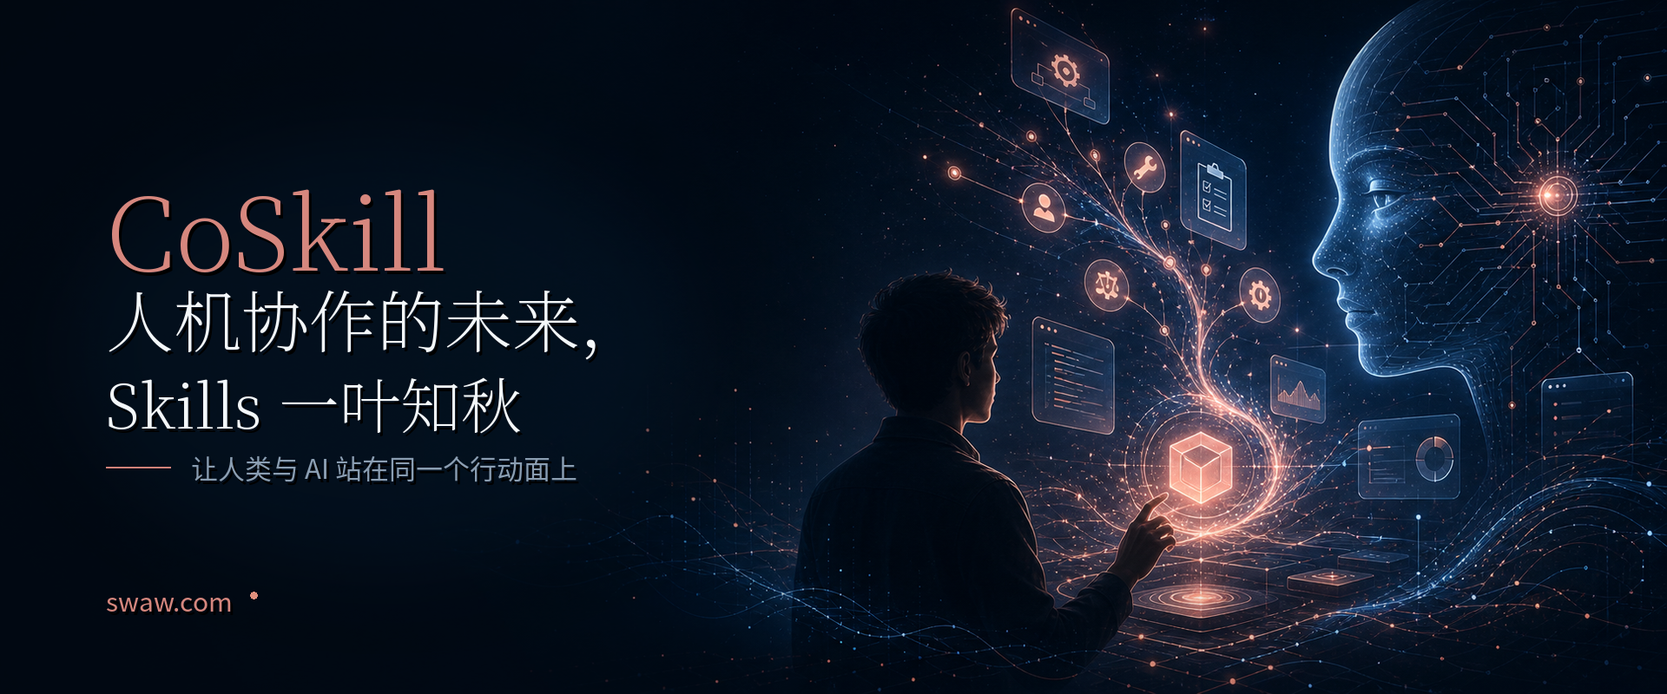
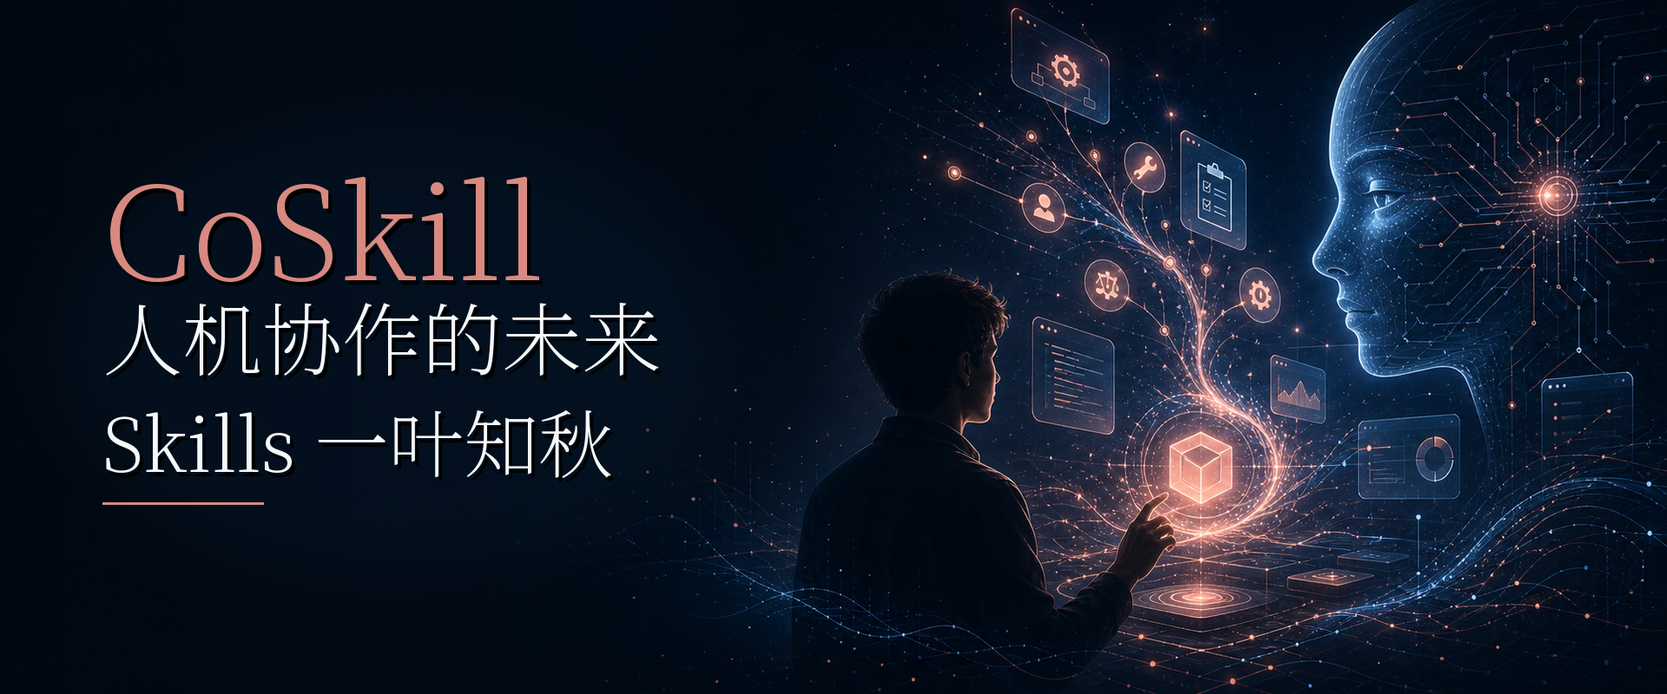
修订coskill 文章

Changed region(s): [[0.0625, 0.25, 0.4062, 0.75], [0.0625, 0.8438, 0.1562, 0.9062]]

diff --git a/content/d/coskill-trustworthy-collaboration/index.md b/content/d/coskill-trustworthy-collaboration/index.md
@@ -1,9 +1,9 @@
 ---
-date: "2026-06-11T17:07:20+08:00"
+date: "2026-06-12T17:56:53+08:00"
 draft: false
-title: "Coskill: Not Making AI Stronger, but Making Collaboration More Trustworthy"
+title: "CoSkill: The Future of Human-Agent Collaboration"
 slug: "coskill-trustworthy-collaboration"
-description: "Starting from Anthropic Agent Skills, this essay argues that skills should not only empower agents, but also become human-legible, interruptible, reproducible, and auditable units of collaboration."
+description: "Starting from Anthropic Skills, this essay proposes CoSkill: a capability unit with an agent-callable interface, a human-operable UI, and a shared layer for logs, permissions, and approvals."
 outputs:
  - HTML
  - AGENT_MARKDOWN
@@ -12,117 +12,104 @@ intent:
  - explore
 tags:
  - ai
+ - tooling
 ---
 
-# Coskill: Not Making AI Stronger, but Making Collaboration More Trustworthy
+# The Future of Human-Agent Collaboration, Seen Through Skills
 
-Anthropic's Agent Skills are mainly about expanding the capabilities of models and agents: letting a model load instructions, call tools, use resources, and complete more complex, specialized, and reusable tasks at the right moment.
+Give AI/agents a little less room for autonomous improvisation, and give tools and fixed workflows a little more weight. The fate of humans being replaced will feel a little less close to reality.
 
-That matters.
+![CoSkill, the future of human-agent collaboration](coskill-trustworthy-collaboration.png)
 
-But from the user's point of view, the real question is not only whether the model is stronger. It is whether the work is completed reliably, safely, and intelligibly. A system that can do more is not automatically more trustworthy. Once capability grows, if human visibility, judgment, and takeover rights do not grow with it, collaboration gradually turns into spectatorship.
+## A Subtle Difference
 
-So skills should not be designed only around agents.
+Anthropic's Skills are mainly about [expanding the capabilities of models and agents](https://www.anthropic.com/engineering/equipping-agents-for-the-real-world-with-agent-skills): [letting a model load instructions and call tools on demand](https://platform.claude.com/docs/en/agents-and-tools/agent-skills/overview).
 
-A better direction is **Coskill**: a capability unit that both humans and agents can use.
+That certainly matters. But for human users, the more important question is whether the task is completed predictably and reliably.
 
-Its concrete execution form can be called **CoAction**: the same operation has both a human-friendly interface and an agent-callable interface. It can run automatically, but humans can still inspect, intervene, approve, pause, reproduce, and audit it at any time.
+For a recurring task, people usually want stable, step-by-step delivery. They do not want the model/agent to invent something new every time.
 
-## From Skill to Coskill
+So unless the task is exploratory or research-oriented, skills may be the more central layer.
 
-The problem with many skills today is that they make agents more capable without making human visibility stronger at the same time.
+This is a subtle psychological difference between everyday agent users and large-model companies.
 
-When does the model decide to use a certain skill? How does it interpret that skill? Which tools did it call? Which resources did it read? What intermediate state did it produce? How does it recover after failure? Does a key judgment have evidence behind it? These details are often opaque to humans.
+## Skills Should Not Only Be AI Add-ons. They Should Also Be a Human Foundation.
 
-This not only increases the black-box feeling of AI, but also makes people feel excluded from the action itself.
+Some people mount hundreds of skills for Codex / Claude Code, yet do not understand the details of how the model uses them.
 
-Coskill tries to change that structure of action.
+Skills often operate on concrete objects: modifying a code project, or calling an API to place and pay for an order.
 
-At minimum, a Coskill should include three layers:
+Today, we rarely hear that humans can bypass the agent and directly operate or orchestrate skills themselves.
 
-1. execution instructions and interfaces readable by the agent;
-2. an operation interface and status view understandable by humans;
-3. execution logs, permission boundaries, and pause/approval/replay mechanisms that run through both.
+Many of our abilities have always been granted by tools.
 
-In other words, Coskill is not a human-facing manual wrapped around an agent skill. It is a capability unit that has both a machine entrance and a human entrance.
+Humans are not stronger than great beasts, but we changed the world through tools.
 
-This distinction matters.
+If tools built for humans do not lag behind tools built for AI, we may not necessarily lag behind AI either.
 
-If there is only an agent entrance, the stronger the capability becomes, the more humans are left behind. If there is only a human interface, the system becomes difficult for agents to orchestrate and reuse. Coskill's goal is to put humans and agents on the same plane of action: the same task can be started by an agent or by a human; it can proceed automatically or be taken over manually; it can run, but it can also be explained, challenged, and reproduced.
+## We Cannot Easily Improve Large Models, but We Can Improve Skills
 
-## Trustworthy Collaboration Is Not Approval at Every Step
+It is hard for us to modify large models. With commercial models, we may not even have bargaining power.
 
-The ethical point of Coskill is not that humans must participate in every step.
+Skills are different. This is an example skill from the Claude documentation:
 
-That would drag collaboration back into inefficient manual approval, and it would misunderstand the value of automation. A mature system does not ask humans about everything. It provides the right control surface for different levels of risk.
+```text
+pdf-skill/
+├── SKILL.md (main instructions)
+├── FORMS.md (form-filling guide)
+├── REFERENCE.md (detailed API reference)
+└── scripts/
+    └── fill_form.py (utility script)
+```
 
-Low-risk actions can be completed automatically.
+The `.md` files are text, and the `scripts` directory contains code. Almost anyone can change them.
 
-Medium-risk actions should leave clear records and allow undo or replay.
+## Skill Usage Is Valuable Experience
 
-High-risk actions require human approval, boundary confirmation, and sometimes an explicit evidence trail.
+As the digital world and agent ecosystem become more abundant, there will often be more than one path to the same goal.
 
-Irreversible actions, state-changing actions, or actions involving money, identity, permissions, privacy, production environments, or public release should expose stronger audit and takeover capabilities by default.
+Some birds weave nests from reeds. Some animals sleep while hanging upside down. The Sumerians wrote records on clay tablets. The Chinese used ceramics to make water jars.
 
-The principle is not "humans are slower, so route around them." The principle is: **automation should reduce repetitive labor, while humans retain final responsibility and value judgment.**
+Large-model/agent companies can easily collect which skills users use and how they use them, then improve their own models.
 
-Once a system begins to exercise action rights on behalf of humans, it should not hide the process of action.
+If we add even a little structure to skills or agents:
 
-## Agents Also Need Institutional Constraints
+1. record the usage frequency and sequence paths of each capability inside skills;
+2. record the result after each capability is used, whether it succeeds or fails.
 
-Coskill also reminds the agent: your operations are not happening in secret.
+Then we can form our own experience assets for the digital world, without binding ourselves to any particular large-model/agent company.
 
-Your choices leave traces. Your actions can be audited. Your judgments need evidence. You are not exercising power for humans inside a black box.
+## I Propose the Concept of CoSkill
 
-This sounds like an ethical statement, but it is also an engineering principle.
+A capability unit that both humans and agents can use.
 
-An automation system that cannot be audited is difficult to trust over the long term. Agent behavior that cannot be reproduced is difficult to debug. A skill without permission boundaries can easily slide from "improving efficiency" into "creating incidents." A tool ecosystem that pursues capability expansion without offering a human entrance makes users more dependent on the system while making the system harder to understand.
+It roughly contains:
 
-That is not good collaboration.
+1. execution instructions and interfaces readable by the agent (Skills);
+2. a human-understandable operation interface and status view (App);
+3. a shared layer for logs, permissions, and approvals.
 
-Good collaboration should strengthen both sides: agents gain more reliable execution capacity, while humans gain clearer observation, judgment, and takeover capacity.
+At the execution level, each executable operation can also be called a **CoAction**.
 
-## Coskill as Institutional Design
+A CoAction can be initiated by an agent or by a human. It can run automatically, and it can also be reviewed, approved, or taken over by humans.
 
-Coskill is therefore not only a tool pattern. It is a form of institutional design for human-agent collaboration.
+This also reminds the agent: your operation is not happening in secret. It will be recorded.
 
-It cares not only about how to complete the task, but also about:
+So CoSkill is not only a tool pattern. It is also a design idea for human-agent collaboration.
 
-- who may start the capability;
-- under what conditions the agent may execute automatically;
-- which steps must be visible to humans;
-- which actions require approval;
-- how failure is recovered;
-- how execution can be reproduced;
-- how the result can be audited afterward;
-- how humans can move from spectators back into participation.
+## Skills WorldTree, the Next Step After CoSkill
 
-The future of human-agent relations may be visible in the shape of skills.
+When there are more CoSkills, we can consider:
 
-If we only build increasingly powerful tools for AI, without leaving humans an equally clear, capable, and auditable entrance, then "collaboration" will quickly slide toward replacement. Not because AI necessarily wants to replace people, but because the system structure has already assumed that humans are not on the plane of action.
+1. a unified UI protocol, so a browser-like tool can display the UI of all CoSkills;
+2. aggregating massive numbers of CoSkills, with unified classification, indexing, and orchestration. This interface can center human operation, with agents as assistants, for example to bridge the gaps between skills.
 
-Once humans are no longer on that plane, they can only react to the result afterward: like it or dislike it, accept it or reject it. That is not collaboration. It is closer to consumption.
+## A Leaf Reveals Autumn
 
-## Humans Need Tools That Do Not Fall Behind
+The future is already here. The way Skills exist can already be seen as a signal for the era of human-agent collaboration.
 
-Many human abilities have always been granted by tools.
+If we only build increasingly powerful tools for AI, without leaving humans an equally powerful and enterable interface, then so-called collaboration will quickly slide toward replacement.
 
-Humans are not stronger than great beasts, but we changed the world through tools. Tools are not outside human capability; they have always been extensions of human capability. Language, writing, paper, printing, ledgers, maps, telescopes, and computers are all ways in which limited minds became civilizational capacity.
+The question is not whether AI should become stronger.
 
-In the age of AI agents, then, the real danger is not that agents have tools. The real danger is that only agents get increasingly better tools.
-
-If tools built for humans do not lag behind tools built for agents, human capability may not necessarily lag behind AI agents. The point is not to make humans manually perform every task. The point is to ensure that humans always have clear, powerful, trustworthy entrances into the work, so they can understand what is happening and enter the scene when necessary.
-
-The core of Coskill is not letting AI do things instead of humans. It is letting humans and AI stand on the same plane of action.
-
-Skill gives agents capability.
-
-Coskill makes that capability visible, controllable, and auditable by humans as well.
-
-The future is already here. The way Skills exist is both a technical architecture and a signal for the era of human-agent collaboration.
-
-If the next generation of tools only answers "How can AI become stronger?", we will get stronger automation.
-
-But if it also answers "How can humans remain present?", we may get truly trustworthy collaboration.
-
-> Note: Anthropic describes [Agent Skills](https://www.anthropic.com/engineering/equipping-agents-for-the-real-world-with-agent-skills) as modular capabilities that can be loaded on demand, usually containing instructions, metadata, and optional scripts, templates, and resources. This essay is not an implementation guide for Anthropic Skills. It uses that form as a starting point for a broader collaboration design direction.
+The question is whether, when AI becomes stronger, humans can still stand on the same plane of action.

diff --git a/content/d/coskill-trustworthy-collaboration/index.zh-tw.md b/content/d/coskill-trustworthy-collaboration/index.zh-tw.md
@@ -1,9 +1,9 @@
 ---
-date: "2026-06-11T17:07:20+08:00"
+date: "2026-06-12T17:56:53+08:00"
 draft: false
-title: "Coskill：不是讓 AI 更強，而是讓協作更可信"
+title: "CoSkill：人機協作的未來"
 slug: "coskill-trustworthy-collaboration"
-description: "從 Anthropic Agent Skills 出發，重新思考 skill 不只是 agent 的能力包，也應該成為人類可理解、可介入、可復現、可審計的協作單元。"
+description: "從 Anthropic Skills 出發，提出 CoSkill：讓同一能力單元同時擁有 agent 可呼叫接口、人類可操作介面，以及日誌、權限、審批層。"
 outputs:
  - HTML
  - AGENT_MARKDOWN
@@ -12,117 +12,104 @@ intent:
  - explore
 tags:
  - ai
+ - tooling
 ---
 
-# Coskill：不是讓 AI 更強，而是讓協作更可信
+# 人機協作的未來，Skills 一葉知秋
 
-Anthropic 提出的 Agent Skills，核心是增強模型與 agent 的能力：讓模型在合適的時候載入說明、呼叫工具、使用資源，完成更複雜、更專業、更可複用的任務。
+讓 AI/agent 自主發揮的空間小一點，工具化和固化的流程多一點，人類被取代的命運就會離現實更遠一點。
 
-這當然重要。
+![CoSkill，人機協作的未來](coskill-trustworthy-collaboration.png)
 
-但從人類使用者的角度看，真正重要的未必只是「模型更強」，而是事情是否被可靠、安全、可理解地完成。一個系統能做更多事，並不自動意味著它更值得信任。能力增長之後，如果人類的可見性、判斷權和接管權沒有同步增長，協作就會逐漸變成旁觀。
+## 一點微妙分歧
 
-因此，skill 不應只圍繞 agent 設計。
+Anthropic 提出的 Skills，核心是[增強模型與 agent 的能力](https://www.anthropic.com/engineering/equipping-agents-for-the-real-world-with-agent-skills)：[讓模型可以按需載入操作說明、呼叫工具](https://platform.claude.com/docs/en/agents-and-tools/agent-skills/overview)。
 
-更好的方向，是 **Coskill**：一種人類和 agent 都能使用的能力單元。
+這固然重要，但對人類使用者來說，更在乎的是，任務是否能按預期、穩定地完成。
 
-它的具體執行形態可以叫 **CoAction**：同一個操作，既有人類友好的介面，也有 agent 可呼叫的接口；既能自動運行，也能被人類隨時查看、介入、批准、暫停、復現和審計。
+一個經常性任務，人們更希望它穩定、按部就班地完成交付，並不想模型/agent 每次都搞出新東西。
 
-## 從 Skill 到 Coskill
+所以，除非是探索、研究型任務，否則 skills 才是更核心的。
 
-今天很多 skill 的問題在於：它們增強了 agent，卻沒有相應增強人類的可見性。
+這是 agent 日常使用者和大型模型公司之間一點微妙的心理分歧。
 
-模型什麼時候決定使用某個 skill？它如何理解這個 skill？它呼叫了哪些工具？讀取了哪些資源？中間狀態是什麼？失敗後如何恢復？關鍵判斷是否有證據？這些資訊對人類往往並不透明。
+## Skills 不該只是 AI 的外掛，也該是人類的底座
 
-這不僅會放大 AI 的黑箱感，也會讓人類更容易感到自己被排除在行動過程之外。
+有人為 Codex / Claude Code 掛載上百個 skills，但並不了解模型使用它們的具體細節。
 
-而 Coskill 想改變的，正是這個行動結構。
+skills 往往是操作具體對象，例如改動一個程式碼專案，或呼叫某個接口進行付款下單。
 
-一個 Coskill 至少應包含三層：
+今天，很少聽說人類可以越過 agent，直接自己操作或編排 skills。
 
-1. agent 可讀取的執行說明與接口；
-2. 人類可理解的操作介面與狀態視圖；
-3. 貫穿兩者的執行日誌、權限邊界、暫停/批准/回放機制。
+我們的很多能力，本來就是工具賦予的。
 
-換句話說，Coskill 不是給 agent 的 skill 外面套一層說明書，而是讓同一個能力單元同時擁有機器入口和人類入口。
+人類沒有猛獸強壯，卻藉助工具改變了世界。
 
-這點很關鍵。
+如果面向人類的工具不落後於面向 AI 的工具，我們也未必會落後於 AI。
 
-如果只有 agent 入口，那麼能力越強，人類越像被系統甩在身後。如果只有人類介面，那麼系統又難以被 agent 自動編排和複用。Coskill 的目標，是讓人類與 agent 站在同一個行動面上：同一件事，可以由 agent 啟動，也可以由人類啟動；可以自動推進，也可以人工接管；可以運行，也可以被解釋、被質疑、被復現。
+## 我們不能參與改進大型模型，但可以參與改進 skills
 
-## 可信協作不是每一步都人工確認
+我們很難修改大型模型；至於商用模型，可能連議價權都沒有。
 
-Coskill 的道義重點，不是「必須讓人參與每一步」。
+skills 不同。這是 Claude 文件裡的示例 skill：
 
-那會把協作重新拖回低效的人肉審批，也會誤解自動化的價值。真正成熟的系統，不是凡事都問人，而是在不同風險層級上給出合適的控制面。
+```text
+pdf-skill/
+├── SKILL.md (main instructions)
+├── FORMS.md (form-filling guide)
+├── REFERENCE.md (detailed API reference)
+└── scripts/
+    └── fill_form.py (utility script)
+```
 
-低風險動作可以自動完成。
+其中 `.md` 文件裡都是文本，`scripts` 中是程式碼，幾乎人人都可以改。
 
-中風險動作應留下清晰記錄，並允許撤銷或回放。
+## 對 skills 的使用，是一種有價值的經驗
 
-高風險動作需要人類批准、確認邊界，甚至要求系統展示證據鏈。
+隨著數位世界和 agent 生態繁榮，達成一個目標的路徑，往往會變得不只一條。
 
-不可逆、影響外部狀態、涉及金錢、身份、權限、隱私、生產環境或公共發布的動作，則應該預設暴露更強的審計和接管能力。
+有的鳥類用蘆葦織巢，有的獸類倒掛著睡覺，蘇美人把記錄寫在泥板上，中國人用陶瓷做水缸……
 
-這背後的原則不是「人類更慢，所以盡量繞開人類」，而是：**自動化負責減少重複勞動，人類負責保留最終責任與價值判斷。**
+大型模型/agent 公司，很容易收集使用者用了什麼 skills、如何使用，然後改進自家模型的能力。
 
-一旦系統開始替人類行使行動權，它就不該把行動過程藏起來。
+如果對 skills 或 agent 做一點點規範：
 
-## Agent 也需要被制度約束
+1. 記錄 skills 中各個能力的使用頻率、順序路徑；
+2. 記錄各個能力被使用後的效果，是成功，還是失敗。
 
-Coskill 也在提醒 agent：你的操作不是隱秘發生的。
+我們完全可以形成自己的數位世界經驗資產，而不必與某家特定的大型模型/agent 綁定。
 
-你的選擇會留下痕跡。你的行動可以被審計。你的判斷需要證據。你不是在黑箱中替人類行使權力。
+## 我提出 CoSkill 概念
 
-這句話聽上去像倫理宣言，但它其實也是工程原則。
+一種人類和 agent 都能使用的能力單元。
 
-一個無法審計的自動化系統，很難被長期託付。一個無法復現的 agent 行為，很難被除錯。一個沒有權限邊界的 skill，很容易從「提高效率」滑向「製造事故」。一個只追求能力擴張、卻不提供人類入口的工具生態，會讓使用者越來越依賴系統，卻越來越難理解系統。
+它大概包含：
 
-這不是好的協作。
+1. Agent 可讀取的執行說明與接口（Skills）；
+2. 人類可理解的操作介面與狀態視圖（App）；
+3. 兩者共通的日誌、權限、審批層。
 
-好的協作應該讓雙方都變強：agent 獲得更可靠的執行能力，人類獲得更清晰的觀察、判斷和接管能力。
+在具體執行上，也可以把每一次可執行操作稱為 **CoAction**。
 
-## Coskill 是一種制度設計
+一個 CoAction 既可以由 agent 發起，也可以由人類發起；既可以自動運行，也可以被人類審查、審批或接管。
 
-所以，Coskill 不只是工具方案，而是一種人機協作的制度設計。
+這也在提醒 agent：你的操作不是隱秘發生，而是會被記錄。
 
-它關心的不只是「如何完成任務」，還包括：
+所以 CoSkill 不只是工具方案，也是一種人機協作的設計理念。
 
-- 誰可以啟動這個能力；
-- agent 在什麼條件下可以自動執行；
-- 哪些步驟必須暴露給人類；
-- 哪些動作需要批准；
-- 失敗時如何恢復；
-- 執行後如何復現；
-- 事後如何審計；
-- 人類如何從旁觀者重新變回參與者。
+## Skills WorldTree，CoSkill 的後續
 
-未來的人機關係，也許可以從 skill 的形態中一葉知秋。
+CoSkill 變多後，可以考慮：
 
-如果我們只為 AI 構建越來越強的工具，卻不給人類留下同等清晰、強大、可審計的入口，那麼所謂協作很快就會滑向替代。不是因為 AI 一定要替代人，而是因為系統結構已經預設人類不在行動面上。
+1. 統一 UI 協議，使一個類似「瀏覽器」的工具可以展示所有 CoSkill 的 UI；
+2. 聚合海量 CoSkill，統一分類、索引與編排；這個介面可以以人類操作為中心，agent 作為輔助，例如彌合 skills 之間的「間隙」。
 
-而一旦人類不在行動面上，人類就只能在結果出來後表達喜歡或不喜歡、接受或不接受。那不是協作，更像消費。
+## 一葉知秋
 
-## 人類也需要不落後的工具
+未來已至。Skills 的存在方式，已經可以視為人機協作紀元的風向標。
 
-人類的很多能力，本來就是工具賦予的。
+如果我們只為 AI 構建越來越強的工具，卻不給人類留下同等強大、可介入的介面，那麼所謂協作很快就會滑向取代。
 
-人類沒有猛獸強壯，卻藉助工具改變了世界。工具不是人類能力之外的東西；工具一直是人類能力的延伸。語言、文字、紙張、印刷術、帳本、地圖、望遠鏡、電腦，都是人類把有限心智擴展成文明能力的方式。
+問題不是 AI 要不要變強。
 
-所以，在 AI agent 時代，真正危險的不是 agent 擁有工具，而是只有 agent 擁有越來越好的工具。
-
-如果面向人類的工具不落後於面向 agent 的工具，人類的能力也未必會落後於 AI agent。關鍵不在於讓人類手動做完所有事，而在於讓人類始終擁有清晰、強大、可信的入口，能夠理解正在發生什麼，能夠在必要時進入現場。
-
-Coskill 的核心，不是讓 AI 替人類做事，而是讓人類與 AI 站在同一個行動面上。
-
-Skill 讓 agent 獲得能力。
-
-Coskill 讓這份能力同時對人類可見、可控、可審計。
-
-未來已至。Skills 的存在方式，既是技術架構，也是人機協作紀元的風向標。
-
-如果下一代工具只回答「AI 如何更強」，我們會得到更強的自動化。
-
-但如果它同時回答「人類如何仍然在場」，我們才可能得到真正可信的協作。
-
-> 註：Anthropic 官方將 [Agent Skills](https://www.anthropic.com/engineering/equipping-agents-for-the-real-world-with-agent-skills) 描述為可按需載入的模組化能力，通常包含說明、元資料，以及可選的腳本、模板和資源。本文不是對 Anthropic Skills 的實作說明，而是借這個形態提出一個協作設計方向。
+問題是，當 AI 變強時，人類是否仍然能站在同一個行動面上。

diff --git a/content/d/coskill-trustworthy-collaboration/index.zh.md b/content/d/coskill-trustworthy-collaboration/index.zh.md
@@ -30,10 +30,10 @@ tags:
 
 ## 一点微妙分歧
 
-Anthropic 提出的 Skills，核心是增强模型与 agent 的能力：让模型可以按需加载操作说明、调用工具。
+Anthropic 提出的 Skills，核心是[增强模型与 agent 的能力](https://www.anthropic.com/engineering/equipping-agents-for-the-real-world-with-agent-skills)：[让模型可以按需加载操作说明、调用工具](https://platform.claude.com/docs/en/agents-and-tools/agent-skills/overview)。
 
-https://www.anthropic.com/engineering/equipping-agents-for-the-real-world-with-agent-skills  
-https://platform.claude.com/docs/en/agents-and-tools/agent-skills/overview
+  
+
 
 这固然重要，但对人类使用者来说，更在乎的是，任务是否按预期、稳定地完成。
 
